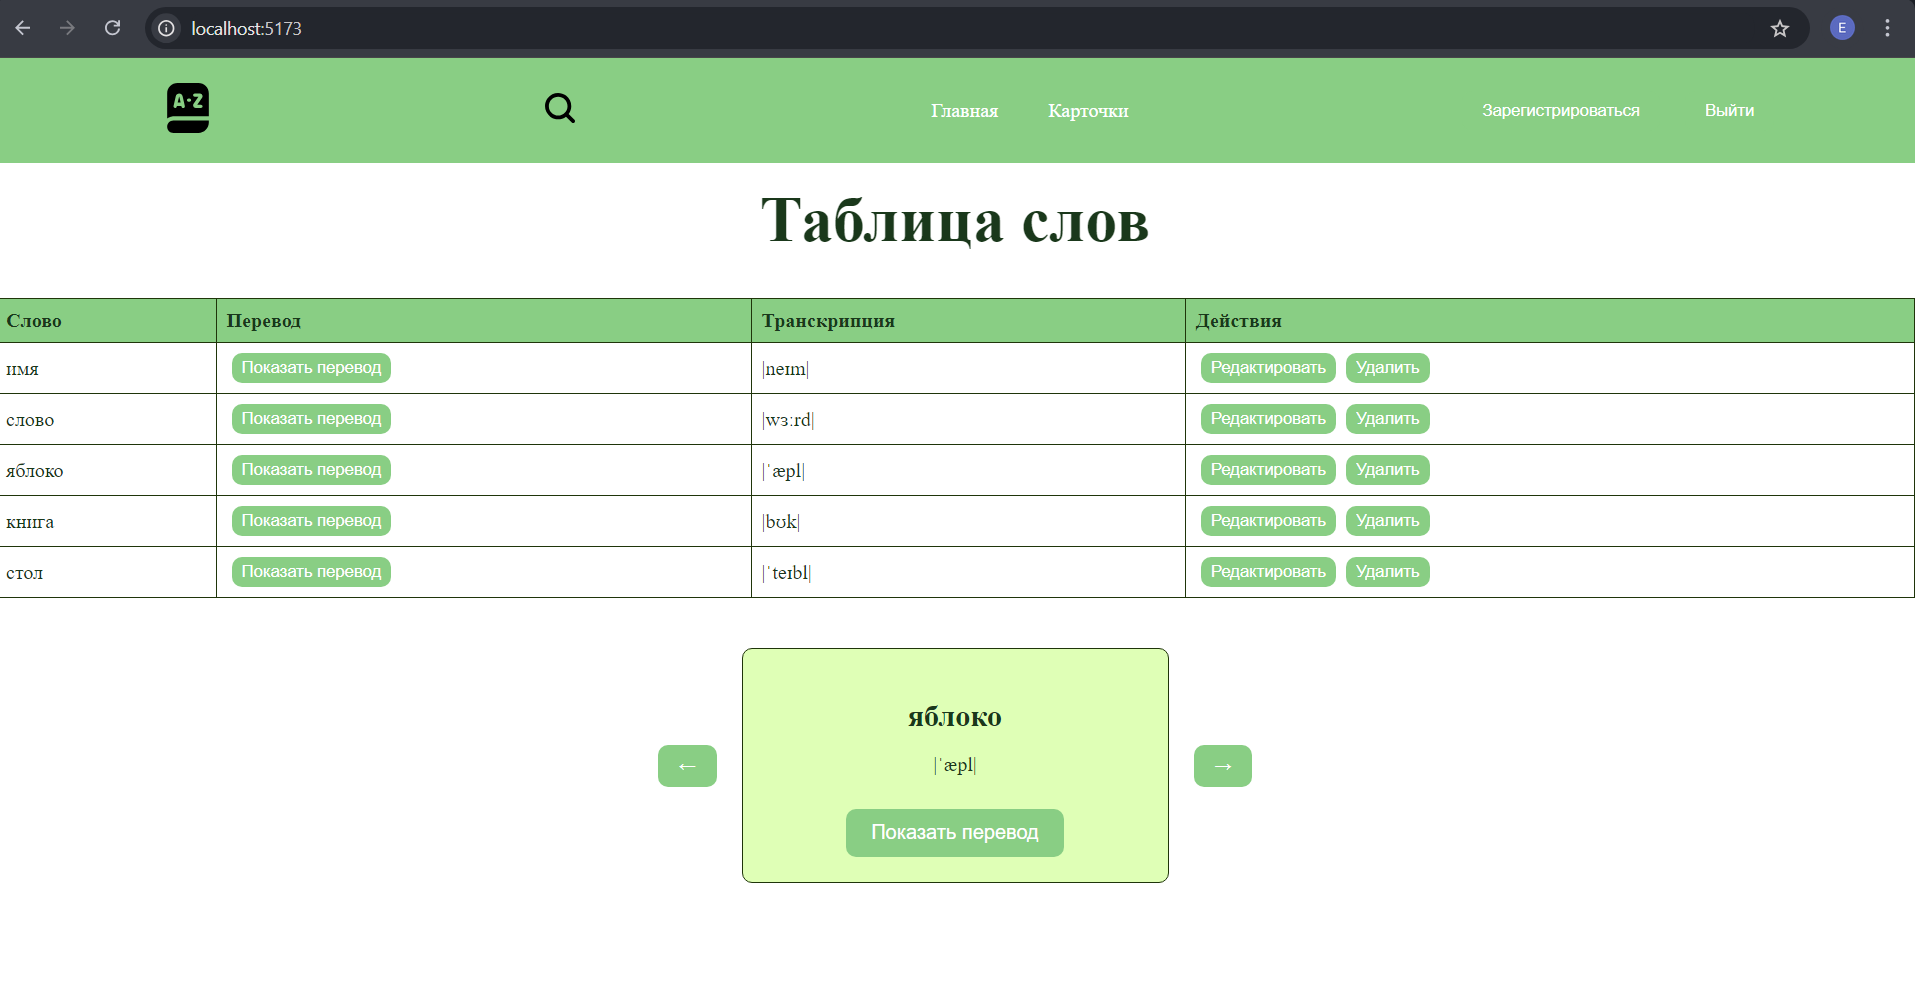
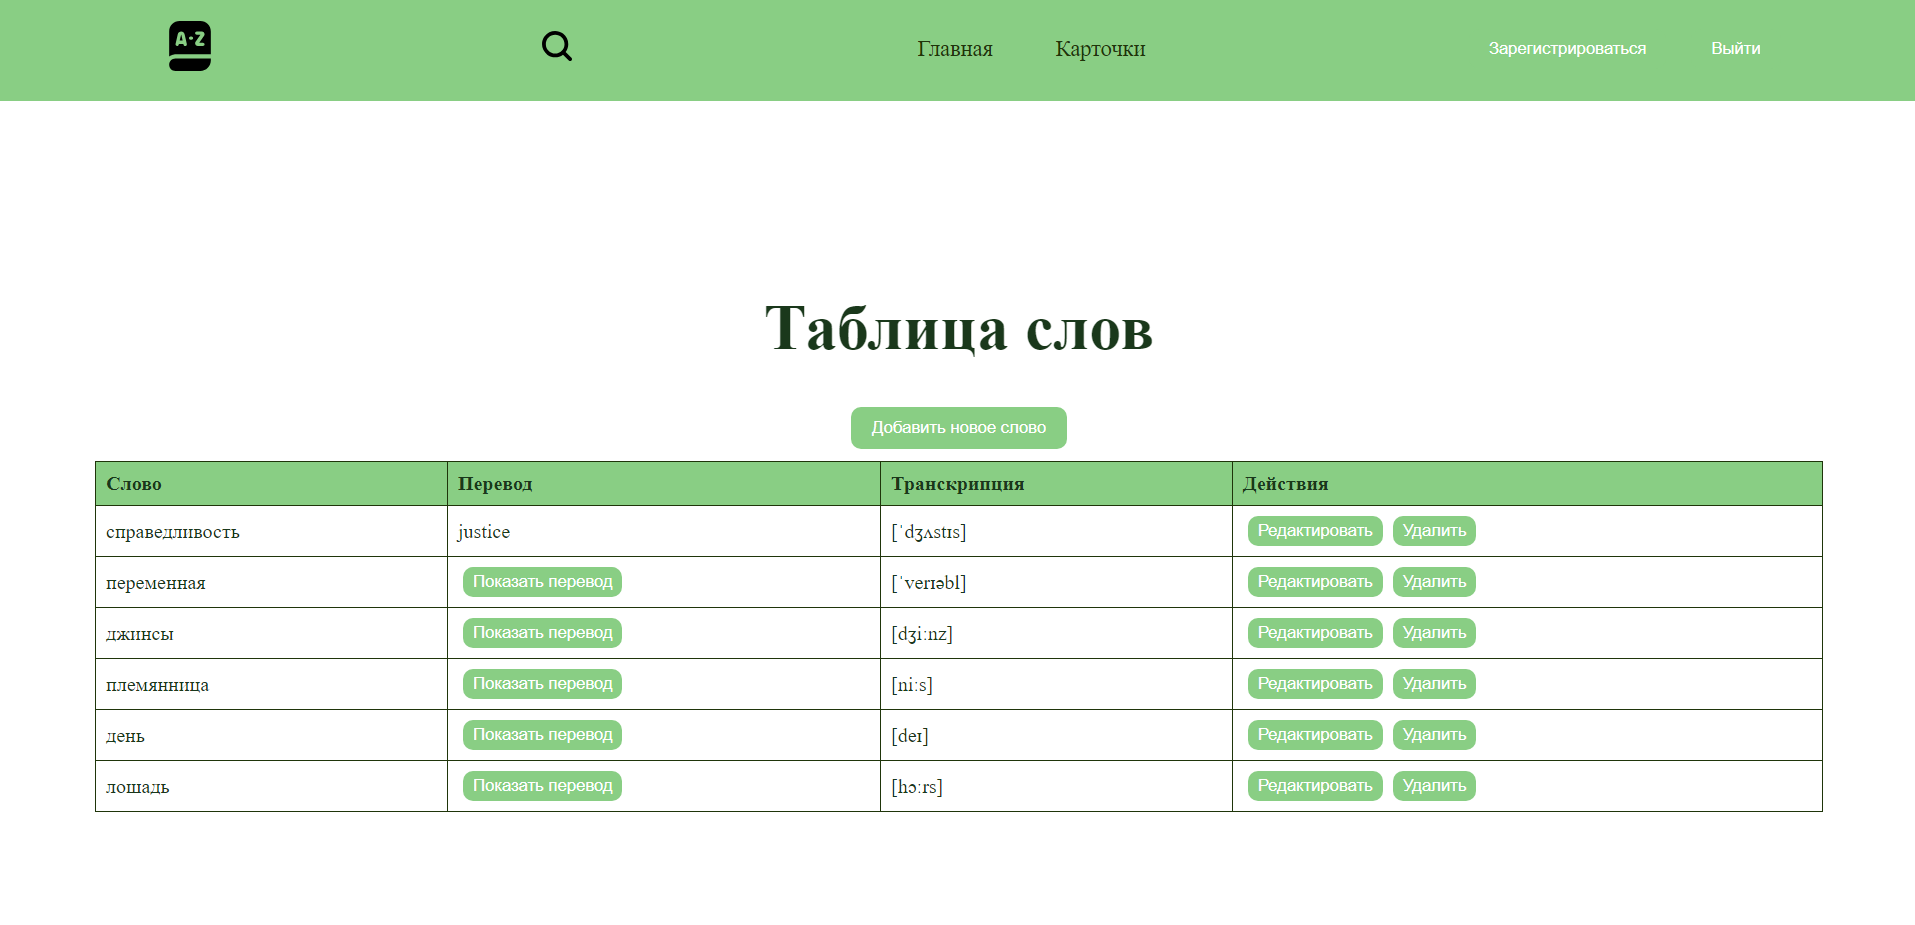
Add form, readme

diff --git a/src/components/WordRow/WordRow.jsx b/src/components/WordRow/WordRow.jsx
@@ -1,29 +1,41 @@
 import React, { useState } from "react";
 import styles from "./WordRow.module.css";
 
-function WordRow({ word, onEdit, onDelete }) {
+function WordRow({
+  word,
+  showTranslation,
+  toggleTranslation,
+  onEdit,
+  onDelete,
+}) {
   const [isEditing, setIsEditing] = useState(false);
   const [editedWord, setEditedWord] = useState(word);
   const [errors, setErrors] = useState({});
+  const [isSaving, setIsSaving] = useState(false);
 
   const validateFields = () => {
     let newErrors = {};
-    if (!editedWord.name) newErrors.name = "Поле не может быть пустым";
-    if (!editedWord.translate)
-      newErrors.translate = "Поле не может быть пустым";
+    if (!editedWord.russian) newErrors.russian = "Поле не может быть пустым";
+    if (!editedWord.english) newErrors.english = "Поле не может быть пустым";
     if (!editedWord.transcription)
       newErrors.transcription = "Поле не может быть пустым";
     return newErrors;
   };
 
-  const handleSave = () => {
+  const handleSave = async () => {
     const validationErrors = validateFields();
     if (Object.keys(validationErrors).length > 0) {
-      setErrors(validationErrors); // Показать ошибки
+      setErrors(validationErrors);
     } else {
-      console.log("Сохранено:", editedWord); // Выводим параметры формы
-      setIsEditing(false); // Выход из режима редактирования
-      onEdit(editedWord); // Сохранение изменений
+      setIsSaving(true);
+      try {
+        await onEdit(editedWord);
+        setIsEditing(false);
+      } catch (error) {
+        console.error("Ошибка при сохранении:", error);
+      } finally {
+        setIsSaving(false);
+      }
     }
   };
 
@@ -33,33 +45,36 @@ function WordRow({ word, onEdit, onDelete }) {
         <>
           <td>
             <input
-              value={editedWord.name}
+              value={editedWord.russian}
               onChange={(e) =>
-                setEditedWord({ ...editedWord, name: e.target.value })
+                setEditedWord({ ...editedWord, russian: e.target.value })
               }
-              className={errors.name ? styles.error : ""}
+              className={errors.russian ? styles.error : ""}
             />
-            {errors.name && (
-              <span className={styles.errorText}>{errors.name}</span>
+            {errors.russian && (
+              <span className={styles.errorText}>{errors.russian}</span>
             )}
           </td>
           <td>
             <input
-              value={editedWord.translate}
+              value={editedWord.english}
               onChange={(e) =>
-                setEditedWord({ ...editedWord, translate: e.target.value })
+                setEditedWord({ ...editedWord, english: e.target.value })
               }
-              className={errors.translate ? styles.error : ""}
+              className={errors.english ? styles.error : ""}
             />
-            {errors.translate && (
-              <span className={styles.errorText}>{errors.translate}</span>
+            {errors.english && (
+              <span className={styles.errorText}>{errors.english}</span>
             )}
           </td>
           <td>
             <input
               value={editedWord.transcription}
               onChange={(e) =>
-                setEditedWord({ ...editedWord, transcription: e.target.value })
+                setEditedWord({
+                  ...editedWord,
+                  transcription: e.target.value,
+                })
               }
               className={errors.transcription ? styles.error : ""}
             />
@@ -69,13 +84,21 @@ function WordRow({ word, onEdit, onDelete }) {
           </td>
           <td>
             <button onClick={() => setIsEditing(false)}>Отмена</button>
-            <button onClick={handleSave}>Сохранить</button>
+            <button onClick={handleSave} disabled={isSaving}>
+              {isSaving ? "Сохранение..." : "Сохранить"}
+            </button>
           </td>
         </>
       ) : (
         <>
-          <td>{word.name}</td>
-          <td>{word.translate}</td>
+          <td>{word.russian}</td>
+          <td>
+            {showTranslation ? (
+              word.english
+            ) : (
+              <button onClick={toggleTranslation}>Показать перевод</button>
+            )}
+          </td>
           <td>{word.transcription}</td>
           <td>
             <button onClick={() => setIsEditing(true)}>Редактировать</button>

diff --git a/src/components/Main/Main.jsx b/src/components/Main/Main.jsx
@@ -1,21 +1,18 @@
 import React, { useState, useEffect } from "react";
 import WordRow from "../WordRow/WordRow";
-import WordCarousel from "../WordCarousel/WordCarousel";
 import { observer } from "mobx-react";
 import wordStore from "../../store/WordStore";
 import "./Main.css";
 
 const Main = observer(() => {
   const [newWord, setNewWord] = useState({
-    name: "",
-    translate: "",
+    russian: "",
+    english: "",
     transcription: "",
-    meaning: "",
-    subject: "",
   });
-
   const [isFormVisible, setIsFormVisible] = useState(false);
   const [formError, setFormError] = useState("");
+  const [showTranslation, setShowTranslation] = useState({});
 
   useEffect(() => {
     wordStore.fetchWords();
@@ -31,42 +28,50 @@ const Main = observer(() => {
   const handleSubmit = (e) => {
     e.preventDefault();
 
-    // Validate fields before submitting
-    if (!newWord.name || !newWord.translate || !newWord.transcription) {
+    if (!newWord.russian || !newWord.english || !newWord.transcription) {
       setFormError("Заполните все обязательные поля!");
       return;
     }
 
-    wordStore.addWord(newWord); // Add new word to the store (and API)
+    wordStore.addWord(newWord);
     setNewWord({
-      name: "",
-      translate: "",
+      russian: "",
+      english: "",
       transcription: "",
-      meaning: "",
-      subject: "",
     });
     setIsFormVisible(false);
     setFormError("");
   };
 
+  const handleEditWord = (updatedWord) => {
+    wordStore.updateWord(updatedWord);
+  };
+
+  const handleDeleteWord = (id) => {
+    wordStore.deleteWord(id);
+  };
+
+  const toggleTranslation = (id) => {
+    setShowTranslation((prevState) => ({
+      ...prevState,
+      [id]: !prevState[id],
+    }));
+  };
+
   return (
     <main>
-      <button onClick={() => setIsFormVisible(!isFormVisible)}>
-        {isFormVisible ? "Отменить" : "Добавить новое слово"}
-      </button>
-
       {isFormVisible && (
         <form className="add-word-form" onSubmit={handleSubmit}>
           <input
-            name="name"
+            name="russian"
             placeholder="Слово"
-            value={newWord.name}
+            value={newWord.russian}
             onChange={handleInputChange}
           />
           <input
-            name="translate"
+            name="english"
             placeholder="Перевод"
-            value={newWord.translate}
+            value={newWord.english}
             onChange={handleInputChange}
           />
           <input
@@ -75,22 +80,14 @@ const Main = observer(() => {
             value={newWord.transcription}
             onChange={handleInputChange}
           />
-          <input
-            name="meaning"
-            placeholder="Значение"
-            value={newWord.meaning}
-            onChange={handleInputChange}
-          />
-          <input
-            name="subject"
-            placeholder="Тема"
-            value={newWord.subject}
-            onChange={handleInputChange}
-          />
           {formError && <p className="error">{formError}</p>}
           <button type="submit">Сохранить</button>
         </form>
       )}
+
+      <button onClick={() => setIsFormVisible(!isFormVisible)}>
+        {isFormVisible ? "Отменить" : "Добавить новое слово"}
+      </button>
 
       <table className="words-table">
         <thead>
@@ -106,14 +103,14 @@ const Main = observer(() => {
             <WordRow
               key={word.id}
               word={word}
-              onEdit={wordStore.updateWord}
-              onDelete={wordStore.deleteWord}
+              showTranslation={showTranslation[word.id]}
+              toggleTranslation={() => toggleTranslation(word.id)}
+              onEdit={handleEditWord}
+              onDelete={handleDeleteWord}
             />
           ))}
         </tbody>
       </table>
-
-      <WordCarousel />
     </main>
   );
 });

diff --git a/src/components/WordCarousel/WordCarousel.jsx b/src/components/WordCarousel/WordCarousel.jsx
@@ -6,7 +6,7 @@ import WordCard from "../WordCard/WordCard";
 import styles from "./WordCarousel.module.css";
 
 const WordCarousel = observer(() => {
-  const { words, fetchWords } = wordStore();
+  const { words, fetchWords } = wordStore;
   const [currentIndex, setCurrentIndex] = useState(0);
   const [learnedWordsCount, setLearnedWordsCount] = useState(0);
 

diff --git a/src/components/WordRow/WordRow.module.css b/src/components/WordRow/WordRow.module.css
@@ -5,4 +5,5 @@
 .errorText {
   color: red;
   font-size: 12px;
+  margin-left: 20px;
 }

diff --git a/README.md b/README.md
@@ -1,12 +1,14 @@
 # Приложение для изучения иностранных слов
 
-<img src="public/images/table.png" alt="app" />
-<img src="public/images/words.png" alt="app" />
+<img src="public/images/app1.png" alt="app" />
 <img src="public/images/app2.png" alt="app" />
+<img src="public/images/app3.png" alt="app" />
+<img src="public/images/app4.png" alt="app" />
+<img src="public/images/app5.png" alt="app" />
 
 Главная страница, где отображаются списки слов и карточек, а также режим тренировки.
 
-У каждого слова есть перевод, транскрипция, основное значение. Есть возможность добавления слов.
+У каждого слова есть перевод, транскрипция, основное значение. Есть возможность редактирования, сохранения и удаления слов. Реализована форма для добавления нового слова в таблицу.
 
 По умолчанию перевод всегда скрыт. При нажатии на кнопку "Показать перевод", появляется перевод слова, а кнопка исчезает.
 
